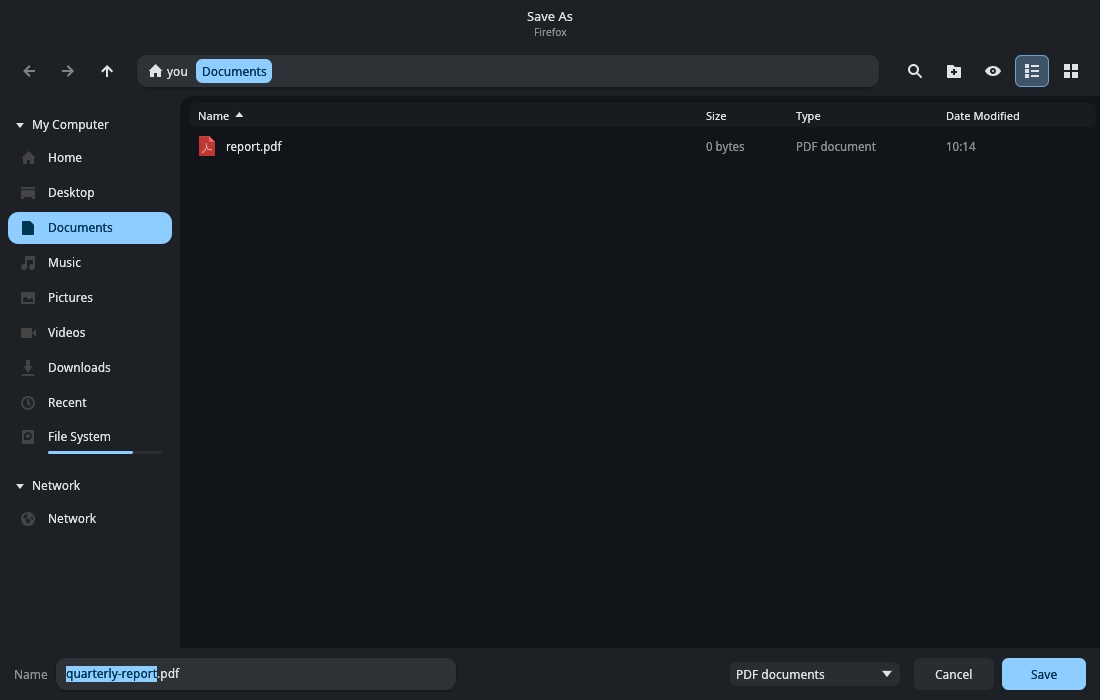
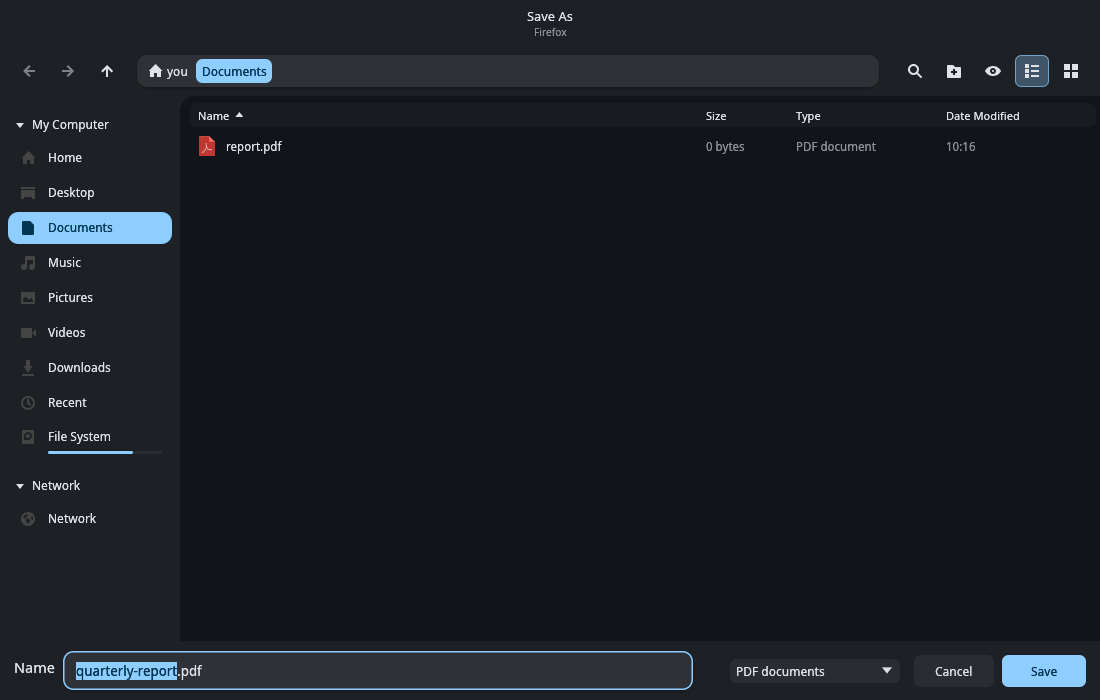
File picker: a wider, more prominent name field
Grows with the window (up to 700 px), bold Name label, larger text, a bit
taller, and an accent outline while typing.

diff --git a/src/app/pickview.rs b/src/app/pickview.rs
@@ -57,29 +57,40 @@ impl RivetApp {
                 ui.spacing_mut().item_spacing.x = 8.0;
                 let v = ui.visuals().clone();
                 if req.mode == Mode::Save {
-                    ui.label(egui::RichText::new("Name").color(v.weak_text_color()));
-                    // The same raised surface as the location bar (a plain box in terminal mode).
-                    let (field_bg, shadow, stroke) = if self.s.terminal {
+                    ui.label(egui::RichText::new("Name").size(14.5).strong().color(v.strong_text_color()));
+                    // The same raised surface as the location bar (a plain box in terminal mode),
+                    // outlined in the accent while you type in it.
+                    let field_id = Id::unique("picker-name");
+                    let focused = ui.memory(|m| m.has_focus(field_id));
+                    let accent = super::accent_color(&self.s);
+                    let (field_bg, shadow, mut stroke) = if self.s.terminal {
                         (v.extreme_bg_color, egui::Shadow::NONE, super::tui_line(&v))
                     } else {
                         (
                             crate::palette::mix(v.window_fill, v.text_color(), 0.04),
                             egui::Shadow { offset: [0, 1], blur: 6, spread: 0, color: egui::Color32::from_black_alpha(if v.dark_mode { 90 } else { 40 }) },
-                            egui::Stroke::NONE,
+                            egui::Stroke::new(1.5, egui::Color32::TRANSPARENT),
                         )
                     };
-                    let width = (ui.available_width() - 480.0).clamp(180.0, 380.0);
+                    if focused {
+                        stroke = egui::Stroke::new(1.5, accent);
+                    }
+                    // As wide as the strip allows, leaving room for the types list and buttons.
+                    let reserve = if !req.filters.is_empty() { 420.0 } else { 220.0 };
+                    let width = (ui.available_width() - reserve).clamp(220.0, 700.0);
                     let out = egui::Frame::NONE
                         .fill(field_bg)
                         .shadow(shadow)
                         .stroke(stroke)
                         .corner_radius(super::r_md())
-                        .inner_margin(egui::Margin::symmetric(10, 4))
+                        .inner_margin(egui::Margin::symmetric(12, 5))
                         .show(ui, |ui| {
                             egui::TextEdit::singleline(&mut self.pick_name)
+                                .id(field_id)
                                 .frame(egui::Frame::NONE)
+                                .font(crate::fonts::ui_font(15.0))
                                 .align(Align2::LEFT_CENTER)
-                                .min_size(Vec2::new(0.0, 24.0))
+                                .min_size(Vec2::new(0.0, 26.0))
                                 .desired_width(width)
                                 .hint_text("File name")
                                 .show(ui)
